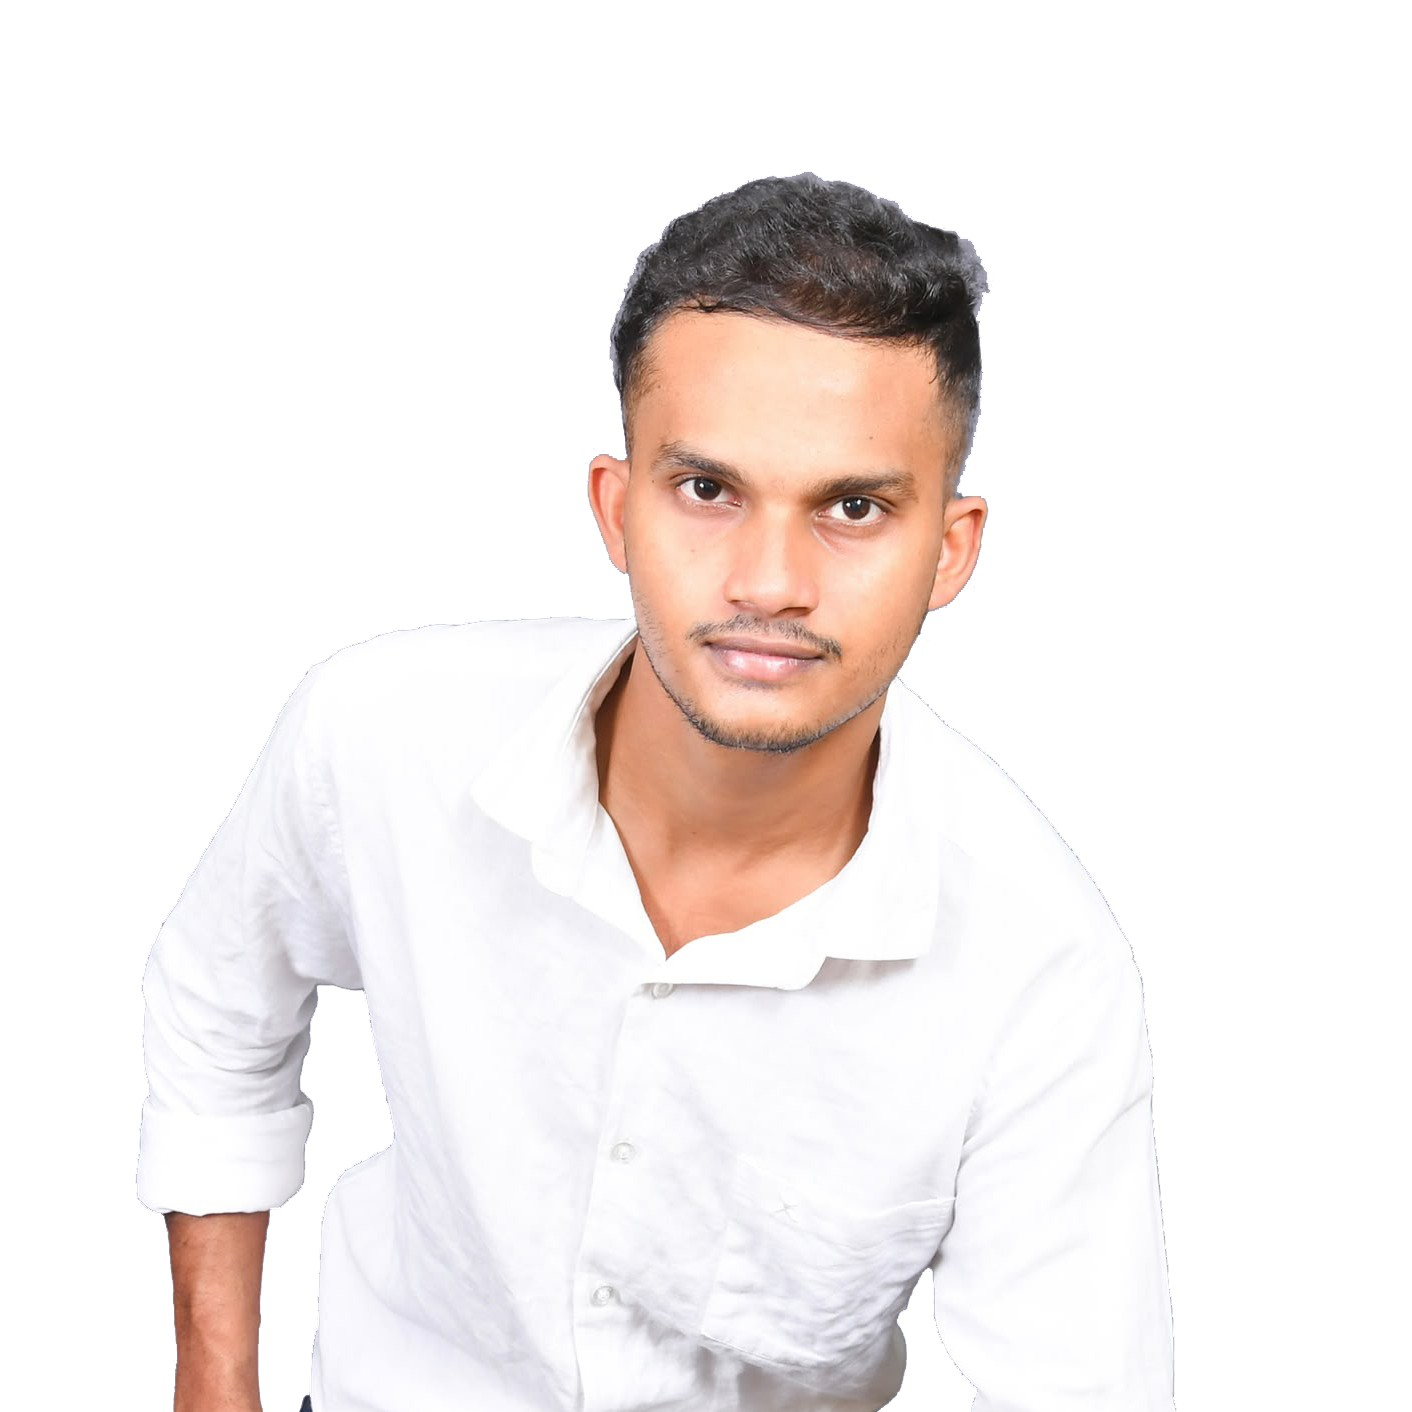
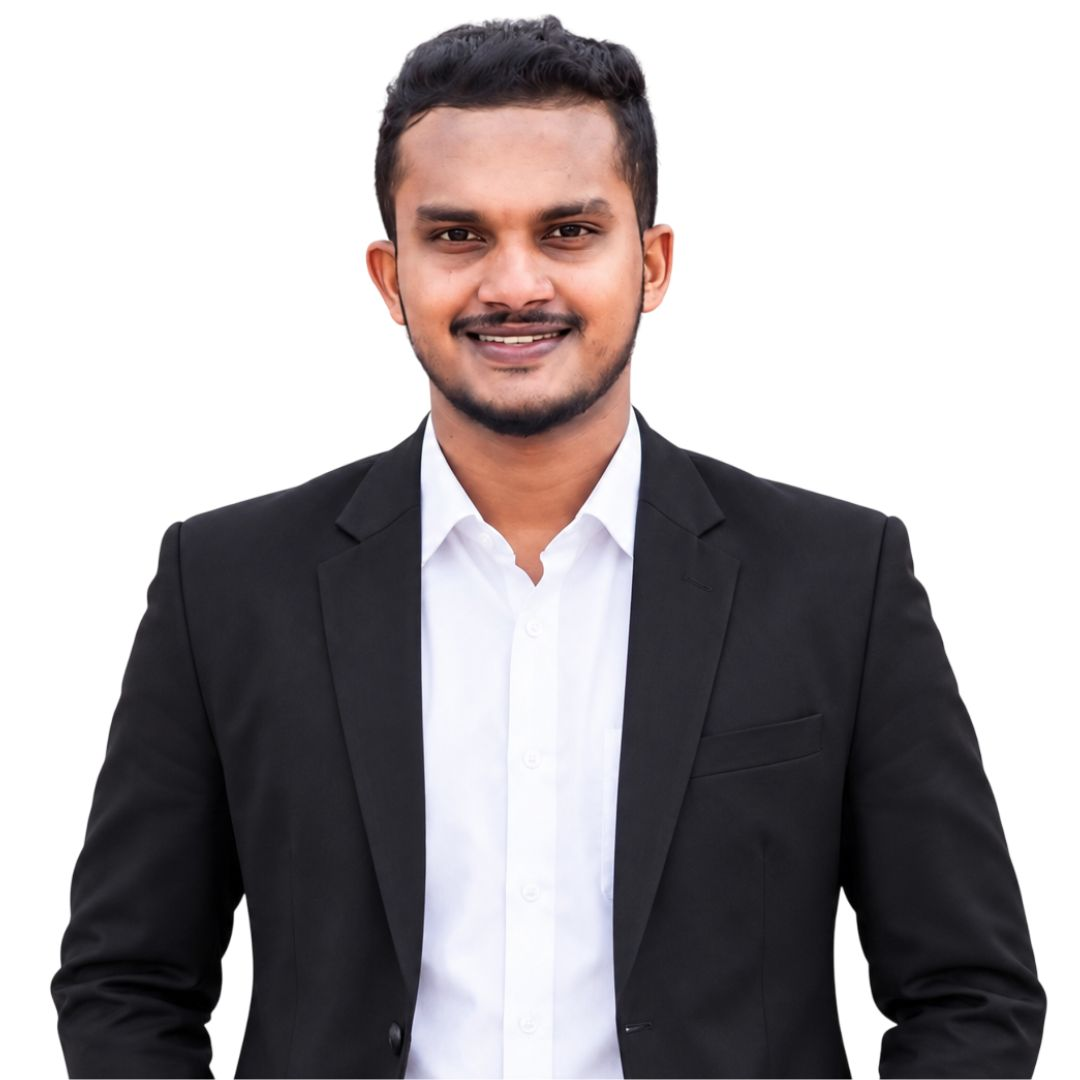
Update about page

diff --git a/about.html b/about.html
@@ -235,7 +235,7 @@ style="color: var(--ink-soft); font-size: 1.1rem; line-height: 1.8;">
           <div style="flex: 1; min-width: 230px; scroll-snap-align: start; background: var(--surface); border: 1px solid var(--line); border-radius: var(--radius-lg); padding: 40px 15px; text-align: center; box-shadow: var(--shadow-sm); transition: 0.3s ease;" onmouseover="this.style.transform='translateY(-5px)'; this.style.boxShadow='var(--shadow)'" onmouseout="this.style.transform='translateY(0)'; this.style.boxShadow='var(--shadow-sm)'">
             <img src="images/dev1.jpg" alt="Developer" style="width: 170px; height: 170px; border-radius: 50%; margin-bottom: 25px; object-fit: cover; border: 4px solid var(--red); padding: 4px;">
             <h3 style="font-size: 1.35rem; margin-bottom: 8px; color: var(--ink);">Chelaka Botheju</h3>
-            <p style="color: var(--red); font-weight: 800; font-size: 0.8rem; margin-bottom: 20px; text-transform: uppercase; letter-spacing: 1px;">Frontend Developer</p>
+            <p style="color: var(--red); font-weight: 800; font-size: 0.8rem; margin-bottom: 20px; text-transform: uppercase; letter-spacing: 1px;"></p>
             <div style="display: flex; justify-content: center; gap: 20px;">
               <a href="https://chelo-chelo.github.io/Portfolio-website/" target="_blank" class="social-link" title="Website"><svg viewBox="0 0 24 24" fill="none" stroke="currentColor" stroke-width="2" style="width: 22px; height: 22px;"><circle cx="12" cy="12" r="10"></circle><line x1="2" y1="12" x2="22" y2="12"></line><path d="M12 2a15.3 15.3 0 0 1 4 10 15.3 15.3 0 0 1-4 10 15.3 15.3 0 0 1-4-10 15.3 15.3 0 0 1 4-10z"></path></svg></a>
               <a href="https://www.linkedin.com/in/chelaka-botheju-6417601a7?utm_source=share_via&utm_content=profile&utm_medium=member_android" target="_blank" class="social-link" title="LinkedIn"><svg viewBox="0 0 24 24" fill="none" stroke="currentColor" stroke-width="2" style="width: 22px; height: 22px;"><path d="M16 8a6 6 0 0 1 6 6v7h-4v-7a2 2 0 0 0-2-2 2 2 0 0 0-2 2v7h-4v-7a6 6 0 0 1 6-6z"></path><rect x="2" y="9" width="4" height="12"></rect><circle cx="4" cy="4" r="2"></circle></svg></a>
@@ -246,7 +246,7 @@ style="color: var(--ink-soft); font-size: 1.1rem; line-height: 1.8;">
           <div style="flex: 1; min-width: 230px; scroll-snap-align: start; background: var(--surface); border: 1px solid var(--line); border-radius: var(--radius-lg); padding: 40px 15px; text-align: center; box-shadow: var(--shadow-sm); transition: 0.3s ease;" onmouseover="this.style.transform='translateY(-5px)'; this.style.boxShadow='var(--shadow)'" onmouseout="this.style.transform='translateY(0)'; this.style.boxShadow='var(--shadow-sm)'">
             <img src="images/dev2.jpeg" alt="Developer" style="width: 170px; height: 170px; border-radius: 50%; margin-bottom: 25px; object-fit: cover; border: 4px solid var(--red); padding: 4px;">
             <h3 style="font-size: 1.35rem; margin-bottom: 8px; color: var(--ink);">Chethiya Samaradiwakara</h3>
-            <p style="color: var(--red); font-weight: 800; font-size: 0.8rem; margin-bottom: 20px; text-transform: uppercase; letter-spacing: 1px;">Backend Developer</p>
+            <p style="color: var(--red); font-weight: 800; font-size: 0.8rem; margin-bottom: 20px; text-transform: uppercase; letter-spacing: 1px;"></p>
             <div style="display: flex; justify-content: center; gap: 20px;">
               <a href="https://chethiya4.github.io/Portfolio/" target="_blank" class="social-link" title="Website"><svg viewBox="0 0 24 24" fill="none" stroke="currentColor" stroke-width="2" style="width: 22px; height: 22px;"><circle cx="12" cy="12" r="10"></circle><line x1="2" y1="12" x2="22" y2="12"></line><path d="M12 2a15.3 15.3 0 0 1 4 10 15.3 15.3 0 0 1-4 10 15.3 15.3 0 0 1-4-10 15.3 15.3 0 0 1 4-10z"></path></svg></a>
               <a href="https://www.linkedin.com/in/chethiya-samaradiwakara-11a816322/" target="_blank" class="social-link" title="LinkedIn"><svg viewBox="0 0 24 24" fill="none" stroke="currentColor" stroke-width="2" style="width: 22px; height: 22px;"><path d="M16 8a6 6 0 0 1 6 6v7h-4v-7a2 2 0 0 0-2-2 2 2 0 0 0-2 2v7h-4v-7a6 6 0 0 1 6-6z"></path><rect x="2" y="9" width="4" height="12"></rect><circle cx="4" cy="4" r="2"></circle></svg></a>
@@ -255,9 +255,9 @@ style="color: var(--ink-soft); font-size: 1.1rem; line-height: 1.8;">
 
           <!-- Developer 3 -->
           <div style="flex: 1; min-width: 230px; scroll-snap-align: start; background: var(--surface); border: 1px solid var(--line); border-radius: var(--radius-lg); padding: 40px 15px; text-align: center; box-shadow: var(--shadow-sm); transition: 0.3s ease;" onmouseover="this.style.transform='translateY(-5px)'; this.style.boxShadow='var(--shadow)'" onmouseout="this.style.transform='translateY(0)'; this.style.boxShadow='var(--shadow-sm)'">
-            <img src="images/dev3.jpeg" alt="Developer" style="width: 170px; height: 170px; border-radius: 50%; margin-bottom: 25px; object-fit: cover; border: 4px solid var(--red); padding: 4px;">
+            <img src="images/dev3.jpg" alt="Developer" style="width: 170px; height: 170px; border-radius: 50%; margin-bottom: 25px; object-fit: cover; border: 4px solid var(--red); padding: 4px;">
             <h3 style="font-size: 1.35rem; margin-bottom: 8px; color: var(--ink);">Gagana Prasad</h3>
-            <p style="color: var(--red); font-weight: 800; font-size: 0.8rem; margin-bottom: 20px; text-transform: uppercase; letter-spacing: 1px;">Backend Developer</p>
+            <p style="color: var(--red); font-weight: 800; font-size: 0.8rem; margin-bottom: 20px; text-transform: uppercase; letter-spacing: 1px;"></p>
             <div style="display: flex; justify-content: center; gap: 20px;">
               <a href="https://gagana-prasad.github.io/portfolio/" target="_blank" class="social-link" title="Website"><svg viewBox="0 0 24 24" fill="none" stroke="currentColor" stroke-width="2" style="width: 22px; height: 22px;"><circle cx="12" cy="12" r="10"></circle><line x1="2" y1="12" x2="22" y2="12"></line><path d="M12 2a15.3 15.3 0 0 1 4 10 15.3 15.3 0 0 1-4 10 15.3 15.3 0 0 1-4-10 15.3 15.3 0 0 1 4-10z"></path></svg></a>
               <a href="https://www.linkedin.com/in/gagana-prasad-565ba6266/" target="_blank" class="social-link" title="LinkedIn"><svg viewBox="0 0 24 24" fill="none" stroke="currentColor" stroke-width="2" style="width: 22px; height: 22px;"><path d="M16 8a6 6 0 0 1 6 6v7h-4v-7a2 2 0 0 0-2-2 2 2 0 0 0-2 2v7h-4v-7a6 6 0 0 1 6-6z"></path><rect x="2" y="9" width="4" height="12"></rect><circle cx="4" cy="4" r="2"></circle></svg></a>
@@ -268,7 +268,7 @@ style="color: var(--ink-soft); font-size: 1.1rem; line-height: 1.8;">
           <div style="flex: 1; min-width: 230px; scroll-snap-align: start; background: var(--surface); border: 1px solid var(--line); border-radius: var(--radius-lg); padding: 40px 15px; text-align: center; box-shadow: var(--shadow-sm); transition: 0.3s ease;" onmouseover="this.style.transform='translateY(-5px)'; this.style.boxShadow='var(--shadow)'" onmouseout="this.style.transform='translateY(0)'; this.style.boxShadow='var(--shadow-sm)'">
             <img src="images/dev4.jpeg" alt="Developer" style="width: 170px; height: 170px; border-radius: 50%; margin-bottom: 25px; object-fit: cover; border: 4px solid var(--red); padding: 4px;">
             <h3 style="font-size: 1.35rem; margin-bottom: 8px; color: var(--ink);">Nirmal Colambage</h3>
-            <p style="color: var(--red); font-weight: 800; font-size: 0.8rem; margin-bottom: 20px; text-transform: uppercase; letter-spacing: 1px;">Database Administrator</p>
+            <p style="color: var(--red); font-weight: 800; font-size: 0.8rem; margin-bottom: 20px; text-transform: uppercase; letter-spacing: 1px;"></p>
             <div style="display: flex; justify-content: center; gap: 20px;">
               <a href="https://ravinducolambage-hue.github.io/portfolio-01/" target="_blank" class="social-link" title="Website"><svg viewBox="0 0 24 24" fill="none" stroke="currentColor" stroke-width="2" style="width: 22px; height: 22px;"><circle cx="12" cy="12" r="10"></circle><line x1="2" y1="12" x2="22" y2="12"></line><path d="M12 2a15.3 15.3 0 0 1 4 10 15.3 15.3 0 0 1-4 10 15.3 15.3 0 0 1-4-10 15.3 15.3 0 0 1 4-10z"></path></svg></a>
               <a href="https://www.linkedin.com/in/nirmal-colambage/" target="_blank" class="social-link" title="LinkedIn"><svg viewBox="0 0 24 24" fill="none" stroke="currentColor" stroke-width="2" style="width: 22px; height: 22px;"><path d="M16 8a6 6 0 0 1 6 6v7h-4v-7a2 2 0 0 0-2-2 2 2 0 0 0-2 2v7h-4v-7a6 6 0 0 1 6-6z"></path><rect x="2" y="9" width="4" height="12"></rect><circle cx="4" cy="4" r="2"></circle></svg></a>
@@ -279,7 +279,7 @@ style="color: var(--ink-soft); font-size: 1.1rem; line-height: 1.8;">
           <div style="flex: 1; min-width: 230px; scroll-snap-align: start; background: var(--surface); border: 1px solid var(--line); border-radius: var(--radius-lg); padding: 40px 15px; text-align: center; box-shadow: var(--shadow-sm); transition: 0.3s ease;" onmouseover="this.style.transform='translateY(-5px)'; this.style.boxShadow='var(--shadow)'" onmouseout="this.style.transform='translateY(0)'; this.style.boxShadow='var(--shadow-sm)'">
             <img src="images/dev5.jpg" alt="Developer" style="width: 170px; height: 170px; border-radius: 50%; margin-bottom: 25px; object-fit: cover; border: 4px solid var(--red); padding: 4px;">
             <h3 style="font-size: 1.35rem; margin-bottom: 8px; color: var(--ink);">Sudheera Fernando</h3>
-            <p style="color: var(--red); font-weight: 800; font-size: 0.8rem; margin-bottom: 20px; text-transform: uppercase; letter-spacing: 1px;">Business Analyst</p>
+            <p style="color: var(--red); font-weight: 800; font-size: 0.8rem; margin-bottom: 20px; text-transform: uppercase; letter-spacing: 1px;"></p>
             <div style="display: flex; justify-content: center; gap: 20px;">
               <a href="https://sudheerafernando03.github.io/portfolio/" target="_blank" class="social-link" title="Website"><svg viewBox="0 0 24 24" fill="none" stroke="currentColor" stroke-width="2" style="width: 22px; height: 22px;"><circle cx="12" cy="12" r="10"></circle><line x1="2" y1="12" x2="22" y2="12"></line><path d="M12 2a15.3 15.3 0 0 1 4 10 15.3 15.3 0 0 1-4 10 15.3 15.3 0 0 1-4-10 15.3 15.3 0 0 1 4-10z"></path></svg></a>
               <a href="https://www.linkedin.com/in/sudheera-fernando-897447225/" target="_blank" class="social-link" title="LinkedIn"><svg viewBox="0 0 24 24" fill="none" stroke="currentColor" stroke-width="2" style="width: 22px; height: 22px;"><path d="M16 8a6 6 0 0 1 6 6v7h-4v-7a2 2 0 0 0-2-2 2 2 0 0 0-2 2v7h-4v-7a6 6 0 0 1 6-6z"></path><rect x="2" y="9" width="4" height="12"></rect><circle cx="4" cy="4" r="2"></circle></svg></a>
